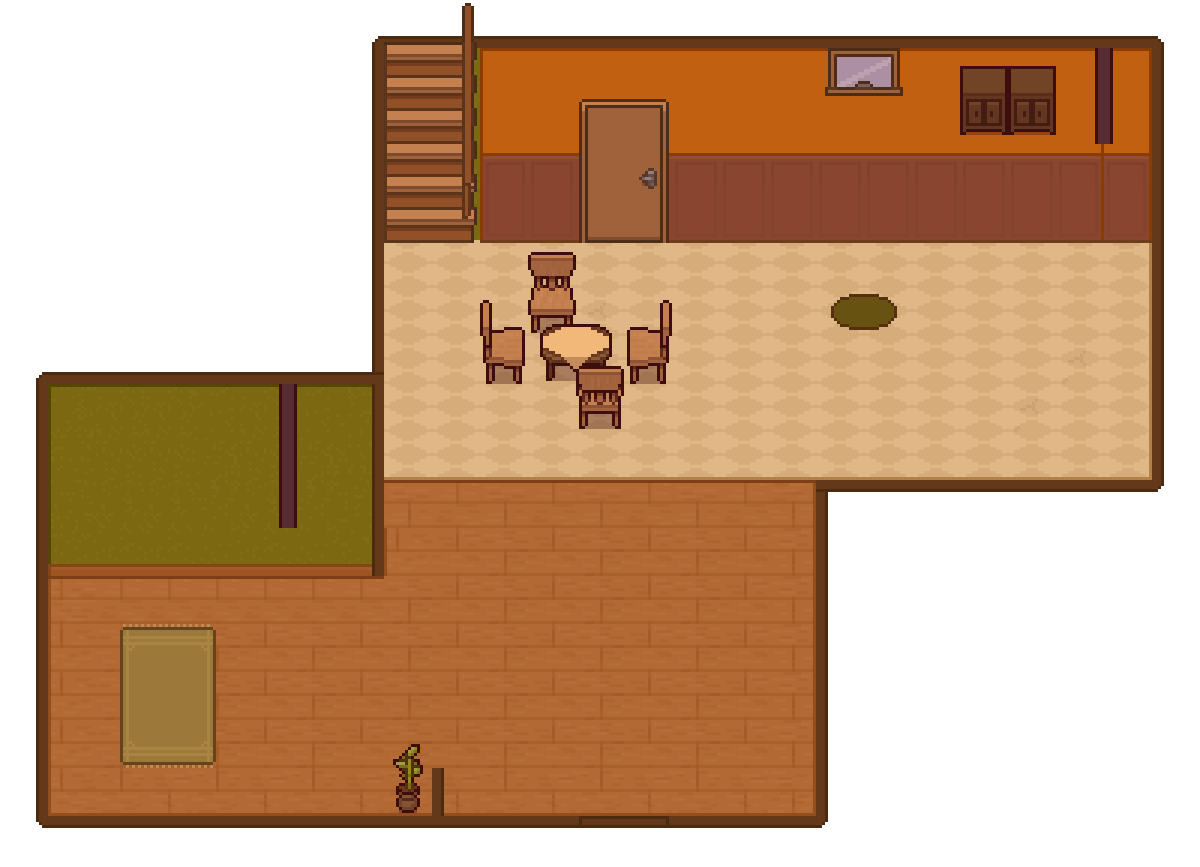
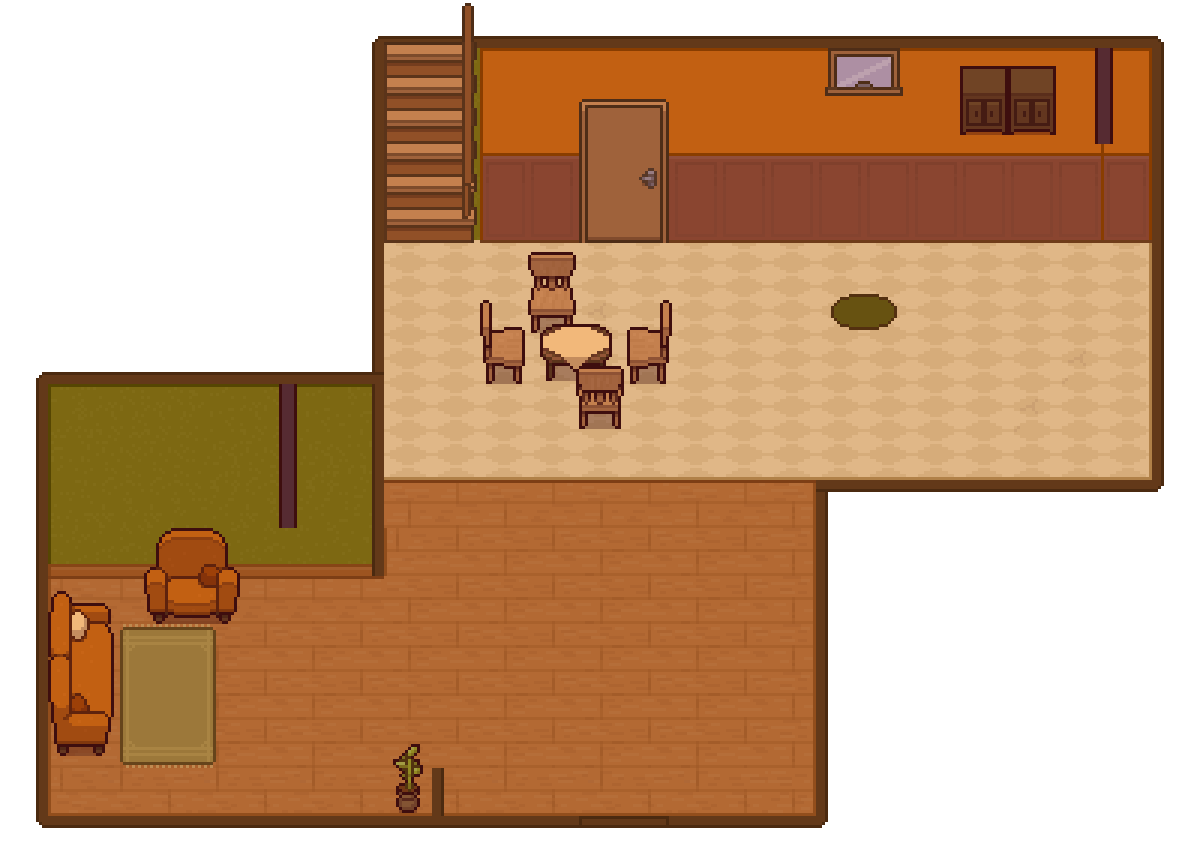
Commented out couches from key furnature. Updated Map image to reflect

Changed region(s): [[0.1233, 0.5917, 0.2158, 0.7474], [0.0308, 0.6851, 0.0925, 0.872]]

diff --git a/src/project.py b/src/project.py
@@ -150,7 +150,12 @@ class Furniture(pygame.sprite.Sprite):
         spritesheet_1 = pygame.image.load('assets/Top-Down_Retro_Interior/TopDownHouse_FurnitureState1.png').convert_alpha()
         spritesheet_2 = pygame.image.load('assets/Top-Down_Retro_Interior/TopDownHouse_FurnitureState2.png').convert_alpha()
 
-        self.objects = spritesheet.SpriteSheet(spritesheet_1)
+        self.states = [spritesheet_1,spritesheet_2]
+        self.state_index = 1
+        self.current_state = self.states[self.state_index]
+    
+
+        self.objects = spritesheet.SpriteSheet(self.current_state)
         self.object_params = object
         self.pos = pos
 
@@ -158,6 +163,7 @@ class Furniture(pygame.sprite.Sprite):
         self.image = self.objects.get_object(*self.object_params)
         self.rect = self.image.get_bounding_rect(1)
         self.rect.topleft = self.pos
+        print(self.current_state)
 
 class Wall(pygame.sprite.Sprite):
     def __init__(self, pos, width, height):
@@ -182,7 +188,7 @@ def is_colliding(player, group):
     return False
 
 
-def check_interaction(player, group):
+def is_interacting(player, group):
     collisions = pygame.sprite.spritecollide(player, group, False)
     print(collisions)
 
@@ -212,15 +218,15 @@ def main():
              Wall((746-200,40-50),342,245))
 
     #Furniture
-    furniture_list = pygame.sprite.Group()
-    furniture_list.add(Furniture(spritesheet.fridge, (1080-200,203-50)),
+    all_furniture = pygame.sprite.Group()
+    all_furniture.add(Furniture(spritesheet.fridge, (1080-200,203-50)),
                        Furniture(spritesheet.sink, (1176-200,250-50)), 
                        Furniture(spritesheet.counter, (1272-200,250-50)),
                        Furniture(spritesheet.stove, (1415-200,251-50)),
                        Furniture(spritesheet.utensils, (1175-200,202-50)),
                        Furniture(spritesheet.cupboard, (1272-200,155-50)),
-                       Furniture(spritesheet.big_couch, (408-200,683-50)),
-                       Furniture(spritesheet.little_couch, (504-200, 634-50)),
+                       #Furniture(spritesheet.big_couch, (408-200,683-50)),
+                       #Furniture(spritesheet.little_couch, (504-200, 634-50)),
                        Furniture(spritesheet.lamp, (454-200,587-50)),
                        Furniture(spritesheet.side_table, (408-200,827-50)),
                        Furniture(spritesheet.fireplace, (600-200,635-50)),
@@ -244,7 +250,7 @@ def main():
     #         step_counter += 1
     #     walk_list.append(temp_img_list)
     print(player.sprite)
-    print(furniture_list)
+    print(all_furniture)
 #Event Loop
     running = True
     while running:
@@ -277,12 +283,12 @@ def main():
         # ...
 
         player.sprite.update()
-        furniture_list.update()
-        if is_colliding(player.sprite, furniture_list) and keys[pygame.K_RETURN]:
-            check_interaction(player.sprite, furniture_list)
+        all_furniture.update()
+        if is_colliding(player.sprite, all_furniture) and keys[pygame.K_RETURN]:
+            is_interacting(player.sprite, all_furniture)
 
         player.sprite.check_collisions(wall)
-        player.sprite.check_collisions(furniture_list)
+        player.sprite.check_collisions(all_furniture)
 
 
         # Render the graphics here.
@@ -290,7 +296,7 @@ def main():
         screen.fill(BG)
         load_map('graphics/environment/Dream_37_Map_MinusKeys.png', screen, resolution)
         wall.draw(screen)
-        furniture_list.draw(screen)
+        all_furniture.draw(screen)
         player.draw(screen)
         
         # screen.blit(walk_list[action][frame], (0,0))
